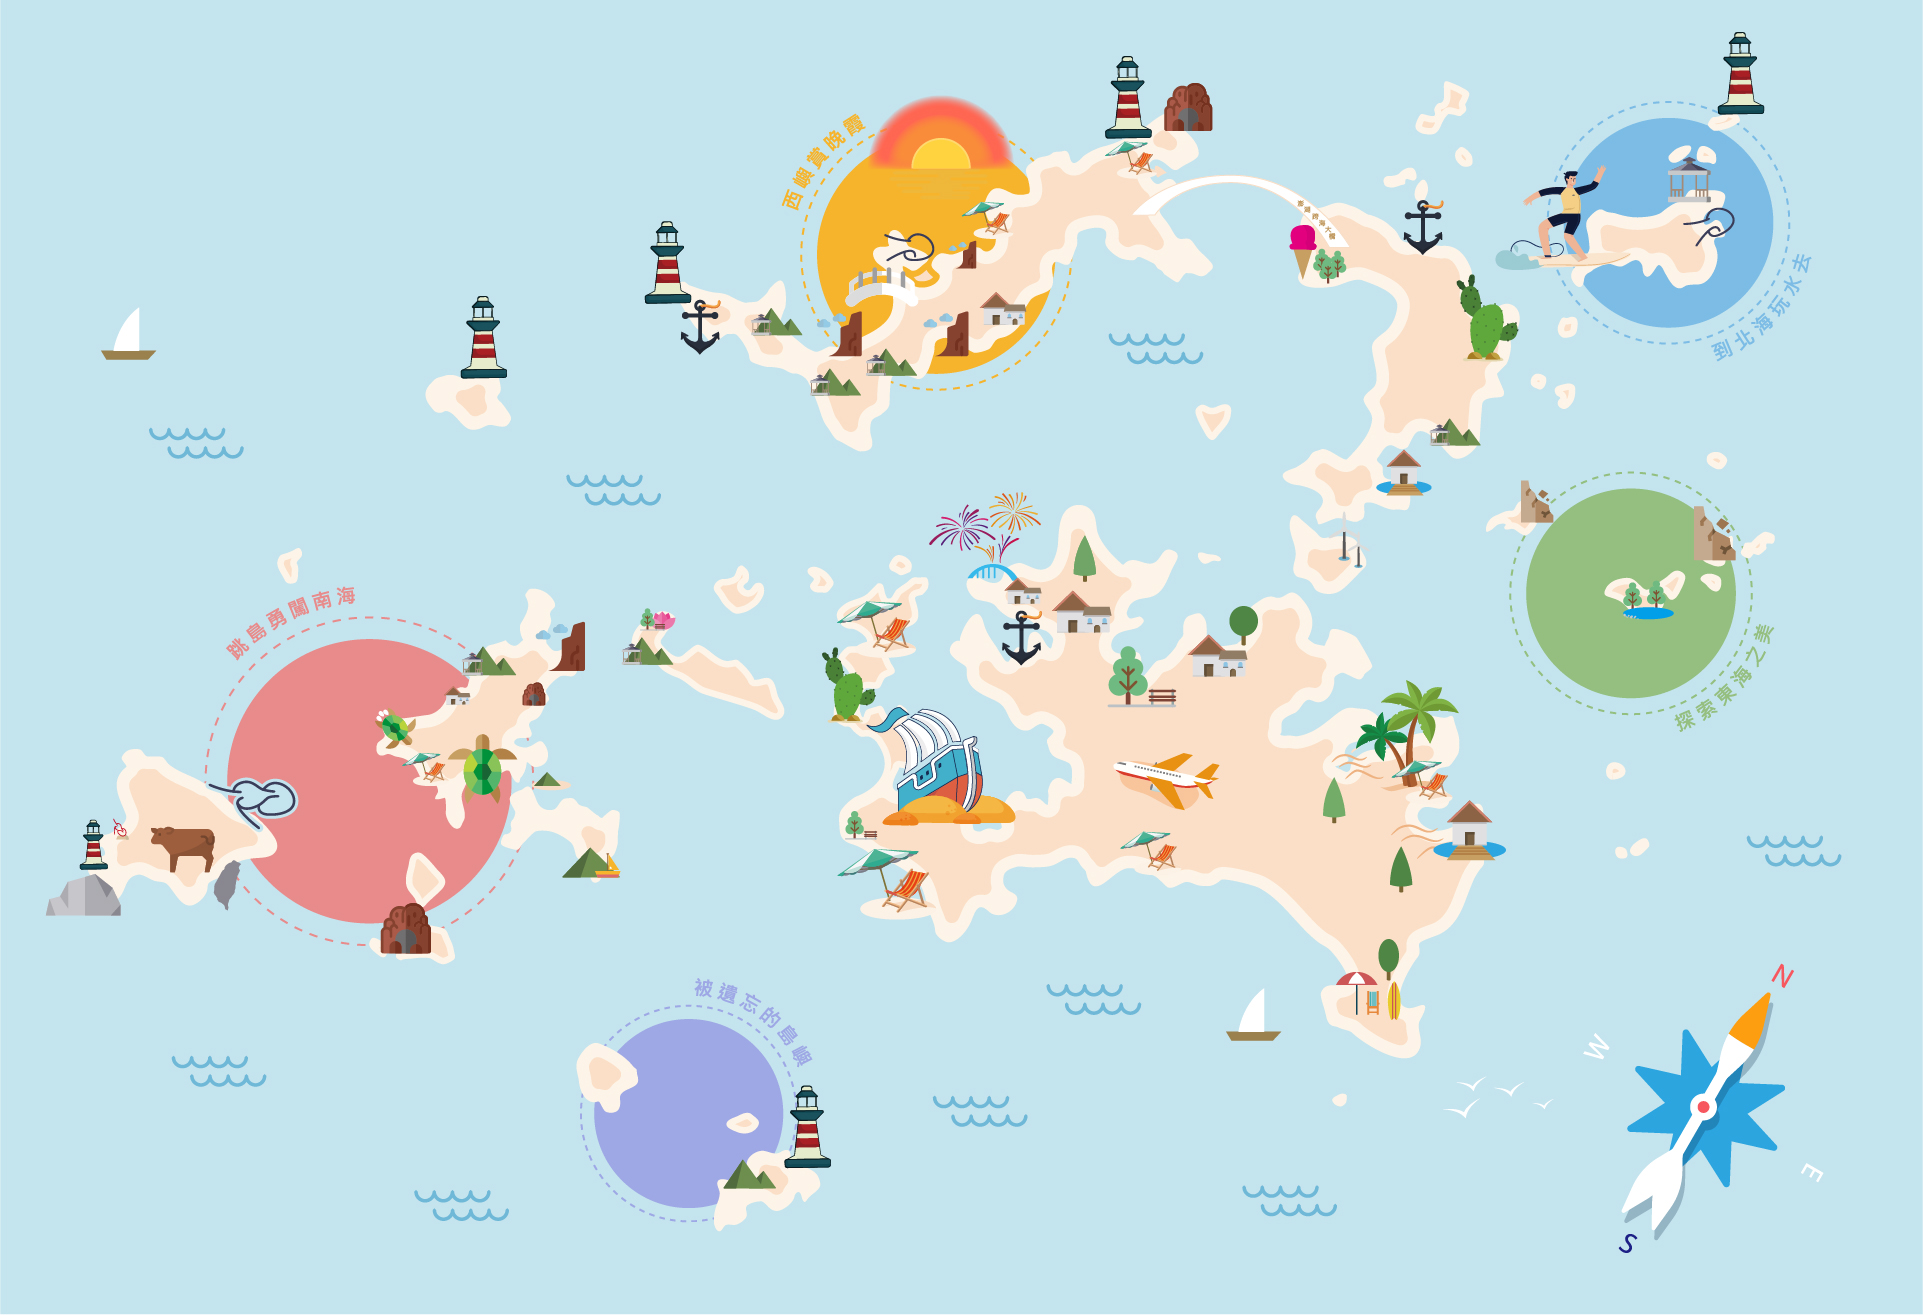
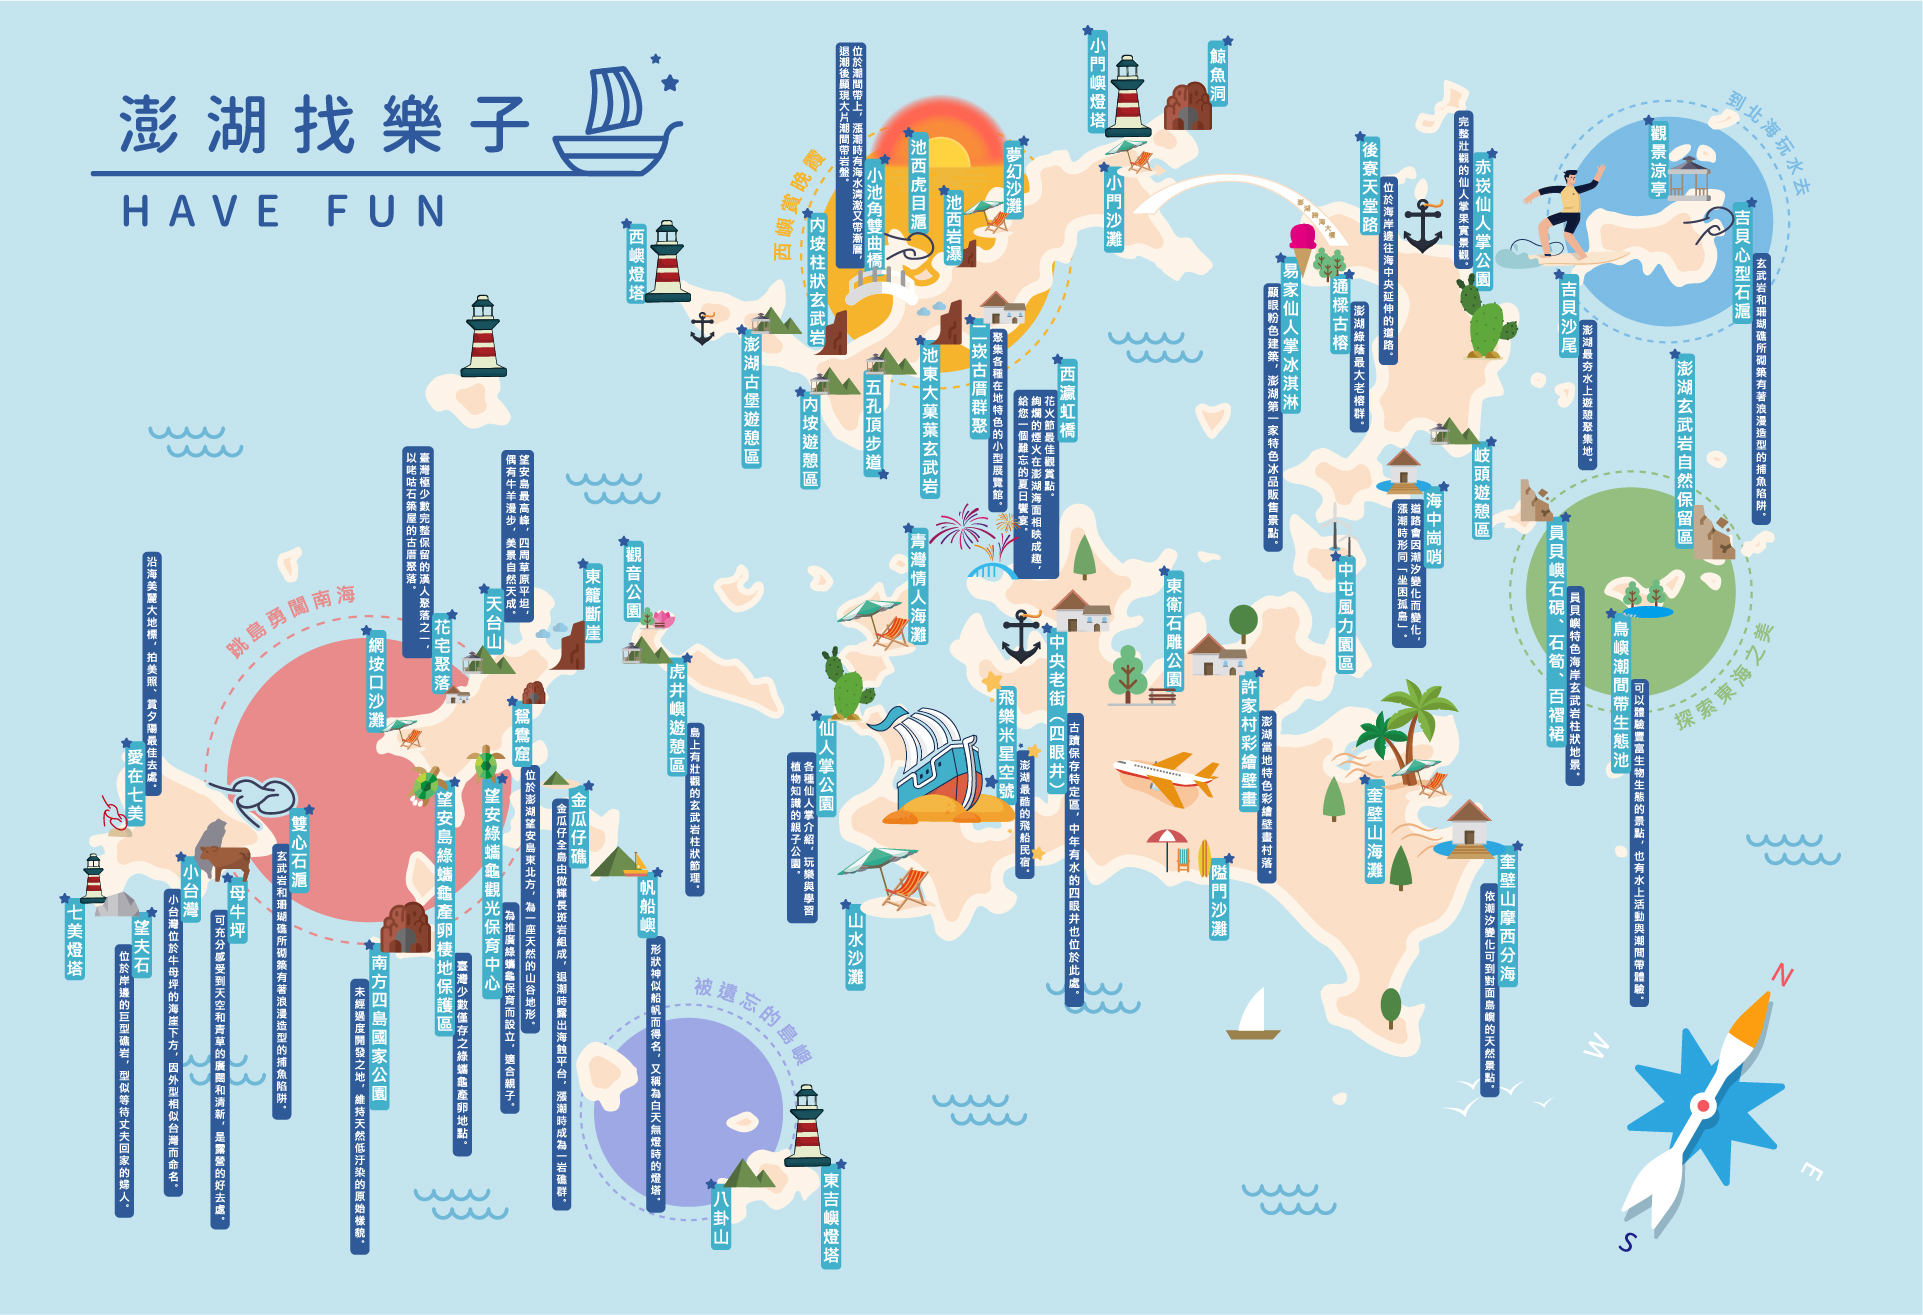
歷史性的一刻，大更新了header，還有更新了 跟我醬玩變成圖片了！

diff --git a/src/components/index/fun.vue b/src/components/index/fun.vue
@@ -1,17 +1,5 @@
 <template>
   <div class="index-fun">
-    <div id="animation_container">
-      <canvas
-        id="canvas"
-        width="1920"
-        height="1313"
-      ></canvas>
-      <div
-        id="dom_overlay_container"
-        style=""
-      >
-      </div>
-    </div>
   </div>
 </template>
 <script>
@@ -22,171 +10,7 @@ export default {
     };
   },
   mounted() {
-    /* eslint-disable */
-    init();
-    let canvas; let stage; let exportRoot; let anim_container; let dom_overlay_container; let
-      fnStartAnimation;
-    function init() {
-      canvas = document.getElementById('canvas');
-      anim_container = document.getElementById('animation_container');
-      dom_overlay_container = document.getElementById('dom_overlay_container');
-      const comp = AdobeAn.getComposition('4B23926C10C54F609B4B6B0CDEBF1CA9');
-      var lib = comp.getLibrary();
-      const loader = new createjs.LoadQueue(false);
-      loader.addEventListener('fileload', (evt) => { handleFileLoad(evt, comp); });
-      loader.addEventListener('complete', (evt) => { handleComplete(evt, comp); });
-      var lib = comp.getLibrary();
-      loader.loadManifest(lib.properties.manifest);
-    }
-    function handleFileLoad(evt, comp) {
-      const images = comp.getImages();
-      if (evt && (evt.item.type == 'image')) { images[evt.item.id] = evt.result; }
-    }
-    function handleComplete(evt, comp) {
-      // This function is always called, irrespective of the content. You can use the variable "stage" after it is created in token create_stage.
-      const lib = comp.getLibrary();
-      const ss = comp.getSpriteSheet();
-      const queue = evt.target;
-      const ssMetadata = lib.ssMetadata;
-      for (let i = 0; i < ssMetadata.length; i++) {
-        ss[ssMetadata[i].name] = new createjs.SpriteSheet({ images: [queue.getResult(ssMetadata[i].name)], frames: ssMetadata[i].frames });
-      }
-      exportRoot = new lib.imghaveFun();
-      stage = new lib.Stage(canvas);
-      stage.enableMouseOver();
-      // Registers the "tick" event listener.
-      fnStartAnimation = () => {
-        stage.addChild(exportRoot);
-        createjs.Ticker.setFPS(lib.properties.fps);
-        createjs.Ticker.addEventListener('tick', stage);
-        stage.addEventListener('tick', handleTick);
-        function getProjectionMatrix(container, totalDepth) {
-          const focalLength = 528.25;
-          const projectionCenter = { x: lib.properties.width / 2, y: lib.properties.height / 2 };
-          const scale = (totalDepth + focalLength) / focalLength;
-          const scaleMat = new createjs.Matrix2D();
-          scaleMat.a = 1 / scale;
-          scaleMat.d = 1 / scale;
-          let projMat = new createjs.Matrix2D();
-          projMat.tx = -projectionCenter.x;
-          projMat.ty = -projectionCenter.y;
-          projMat = projMat.prependMatrix(scaleMat);
-          projMat.tx += projectionCenter.x;
-          projMat.ty += projectionCenter.y;
-          return projMat;
-        }
-        function handleTick(event) {
-          const cameraInstance = exportRoot.___camera___instance;
-          if (cameraInstance !== undefined && cameraInstance.pinToObject !== undefined) {
-            cameraInstance.x = cameraInstance.pinToObject.x + cameraInstance.pinToObject.pinOffsetX;
-            cameraInstance.y = cameraInstance.pinToObject.y + cameraInstance.pinToObject.pinOffsetY;
-            if (cameraInstance.pinToObject.parent !== undefined && cameraInstance.pinToObject.parent.depth !== undefined) { cameraInstance.depth = cameraInstance.pinToObject.parent.depth + cameraInstance.pinToObject.pinOffsetZ; }
-          }
-          applyLayerZDepth(exportRoot);
-        }
-        function applyLayerZDepth(parent) {
-          const cameraInstance = parent.___camera___instance;
-          const focalLength = 528.25;
-          const projectionCenter = { x: 0, y: 0 };
-          if (parent === exportRoot) {
-            const stageCenter = { x: lib.properties.width / 2, y: lib.properties.height / 2 };
-            projectionCenter.x = stageCenter.x;
-            projectionCenter.y = stageCenter.y;
-          }
-          for (const child in parent.children) {
-            const layerObj = parent.children[child];
-            if (layerObj == cameraInstance) { continue; }
-            applyLayerZDepth(layerObj, cameraInstance);
-            if (layerObj.layerDepth === undefined) { continue; }
-            if (layerObj.currentFrame != layerObj.parent.currentFrame) {
-              layerObj.gotoAndPlay(layerObj.parent.currentFrame);
-            }
-            const matToApply = new createjs.Matrix2D();
-            let cameraMat = new createjs.Matrix2D();
-            let totalDepth = layerObj.layerDepth ? layerObj.layerDepth : 0;
-            let cameraDepth = 0;
-            if (cameraInstance && !layerObj.isAttachedToCamera) {
-              const mat = cameraInstance.getMatrix();
-              mat.tx -= projectionCenter.x;
-              mat.ty -= projectionCenter.y;
-              cameraMat = mat.invert();
-              cameraMat.prependTransform(projectionCenter.x, projectionCenter.y, 1, 1, 0, 0, 0, 0, 0);
-              cameraMat.appendTransform(-projectionCenter.x, -projectionCenter.y, 1, 1, 0, 0, 0, 0, 0);
-              if (cameraInstance.depth) { cameraDepth = cameraInstance.depth; }
-            }
-            if (layerObj.depth) {
-              totalDepth = layerObj.depth;
-            }
-            // Offset by camera depth
-            totalDepth -= cameraDepth;
-            if (totalDepth < -focalLength) {
-              matToApply.a = 0;
-              matToApply.d = 0;
-            } else {
-              if (layerObj.layerDepth) {
-                const sizeLockedMat = getProjectionMatrix(parent, layerObj.layerDepth);
-                if (sizeLockedMat) {
-                  sizeLockedMat.invert();
-                  matToApply.prependMatrix(sizeLockedMat);
-                }
-              }
-              matToApply.prependMatrix(cameraMat);
-              const projMat = getProjectionMatrix(parent, totalDepth);
-              if (projMat) {
-                matToApply.prependMatrix(projMat);
-              }
-            }
-            layerObj.transformMatrix = matToApply;
-          }
-        }
-      };
-      // Code to support hidpi screens and responsive scaling.
-      function makeResponsive(isResp, respDim, isScale, scaleType) {
-        let lastW; let lastH; let
-          lastS = 1;
-        window.addEventListener('resize', resizeCanvas);
-        resizeCanvas();
-        function resizeCanvas() {
-          lib.properties.width = 1920;
-          const w = lib.properties.width;
-          const h = lib.properties.height;
-          // const iw = window.innerWidth;
-          const iw = document.body.clientWidth;
-          // const ih = window.innerHeight;
-          const ih = document.body.clientHeight;
-          const pRatio = window.devicePixelRatio || 1;
-          const xRatio = iw / w;
-          // const yRatio = ih / h;
-          let sRatio = 1;
-          if (isResp) {
-            if ((respDim == 'width' && lastW == iw) || (respDim == 'height' && lastH == ih)) {
-              sRatio = lastS;
-            } else if (!isScale) {
-              if (iw < w) { sRatio = xRatio; }
-            } else if (scaleType == 1) {
-              sRatio = xRatio;
-            } else if (scaleType == 2) {
-              sRatio = xRatio;
-            }
-          }
-          // sRatio = 1;
-          canvas.width = w * pRatio * sRatio;
-          canvas.height = h * pRatio * sRatio;
-          canvas.style.width = dom_overlay_container.style.width = anim_container.style.width = `${w * sRatio}px`;
-          canvas.style.height = anim_container.style.height = dom_overlay_container.style.height = `${h * sRatio}px`;
-          stage.scaleX = pRatio * sRatio;
-          stage.scaleY = pRatio * sRatio;
-          lastW = iw; lastH = ih; lastS = sRatio;
-          stage.tickOnUpdate = false;
-          stage.update();
-          stage.tickOnUpdate = true;
-        }
-      }
-      makeResponsive(true, 'both', false, 1);
-      AdobeAn.compositionLoaded(lib.properties.id);
-      fnStartAnimation();
-    }
-    /* eslint-enable */
+
   },
 };
 </script>

diff --git a/src/components/headerButton.vue b/src/components/headerButton.vue
@@ -3,17 +3,10 @@
     class="header__button"
     @click="methodGoTo"
   >
-    <span class="header__button__head"></span>
-    <div class="header__button__body">
-      <img :src="buttonBodyFront" alt="" class="header__button__body__front">
-      <div class="header__button__body__text"><span>{{this.text}}</span></div>
-      <img :src="buttonBodyEnd" alt="" class="header__button__body__end">
-    </div>
+    <div class="header__button--text white--text">{{this.text}}</div>
   </a>
 </template>
 <script>
-import buttonBodyFront from '../assets/button/button_header_body_front.svg';
-import buttonBodyEnd from '../assets/button/button_header_body_end.svg';
 import constVar from '@/utils/constVar';
 
 export default {
@@ -21,17 +14,12 @@ export default {
   props: ['text', 'target', 'directToPage'],
   data() {
     return {
-      buttonBodyFront,
-      buttonBodyEnd,
       localText: '',
     };
   },
   computed: {
     currentURL() {
       return this.$route.path;
-    },
-    buttonLg() {
-      return this.text.length > 4 ? 'header__button__lg' : '';
     },
   },
   methods: {

diff --git a/src/views/pages/Home.vue b/src/views/pages/Home.vue
@@ -65,9 +65,9 @@ export default {
           introText: '',
           contentPath: 'components/index/fun.vue',
           backgroundColor: '',
-          backgroundImage: '',
+          // backgroundImage: '',
           // outerCssClass: '',
-          // backgroundImage: 'img/bg_image/bg_haveFun.jpg',
+          backgroundImage: 'img/bg_image/bg_haveFun.jpg',
           outerCssClass: 'index-topic--fun',
           targetClass: 'target-fun',
         },
